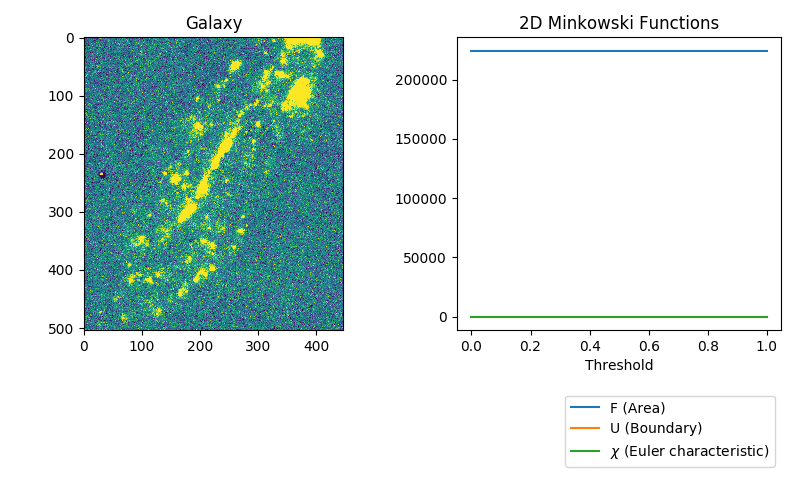
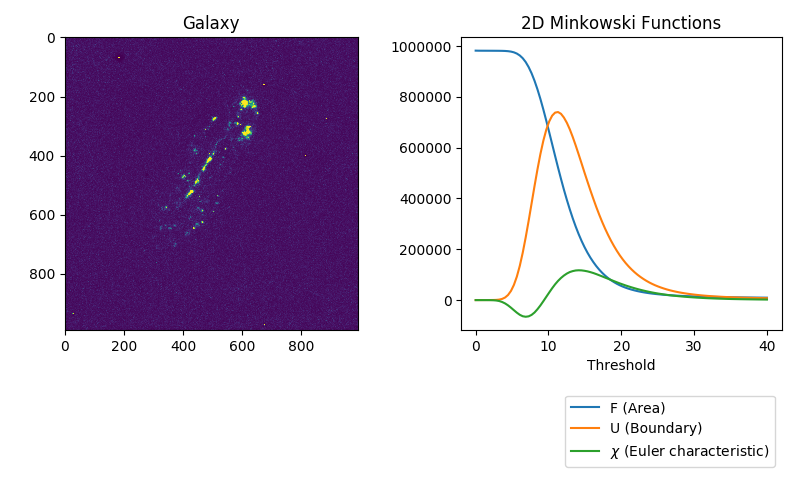
withContrast

diff --git a/main.py b/main.py
@@ -3,6 +3,7 @@ import numpy as np
 from astropy.io import fits
 from minkfncts2d import MF2D
 import argparse
+import os
 
 
 def contrast_fantome(file1):
@@ -20,7 +21,7 @@ def contrast_fantome(file1):
             file2 += [file3]
     hdu = fits.PrimaryHDU()
     hdu.data = file2
-    hdu.writeto('cf_%d.fits'%file1)  #creer un fichier fits tout bien comme on veut
+    hdu.writeto('temp.fits')  #creer un fichier fits tout bien comme on veut
 
 
 
@@ -29,6 +30,8 @@ def main(myFile):
 
     # Modifier le lien de l'image pour l'ouvrir
     file1 = fits.getdata(myFile)
+    contrast_fantome(file1)
+    file1 = fits.getdata("temp.fits")
     file1 = np.float64(file1)
 
     name = myFile.split("/")
@@ -39,7 +42,7 @@ def main(myFile):
     U = []
     Chi = []
 
-    for threshold in np.linspace(0.0, 1.0, 100):
+    for threshold in np.linspace(0.0, 40, 100):
         (f, u, chi) = MF2D(file1, threshold)
         F.append(f)
         U.append(u)
@@ -52,9 +55,11 @@ def main(myFile):
     plt.imshow(file1, cmap="viridis")
     #plt.show()
 
+    print(Chi)
+    os.remove("temp.fits")
     fig.add_subplot(122)
     #plt.clf()
-    x = np.linspace(0.0, 1.0, 100)
+    x = np.linspace(0.0, 40, 100)
     plt.plot(x, F, x, U, x, Chi)
     plt.title("2D Minkowski Functions")
     plt.legend(["F (Area)", "U (Boundary)", "$\chi$ (Euler characteristic)"], bbox_to_anchor =(1,-0.2), loc = "upper right")
